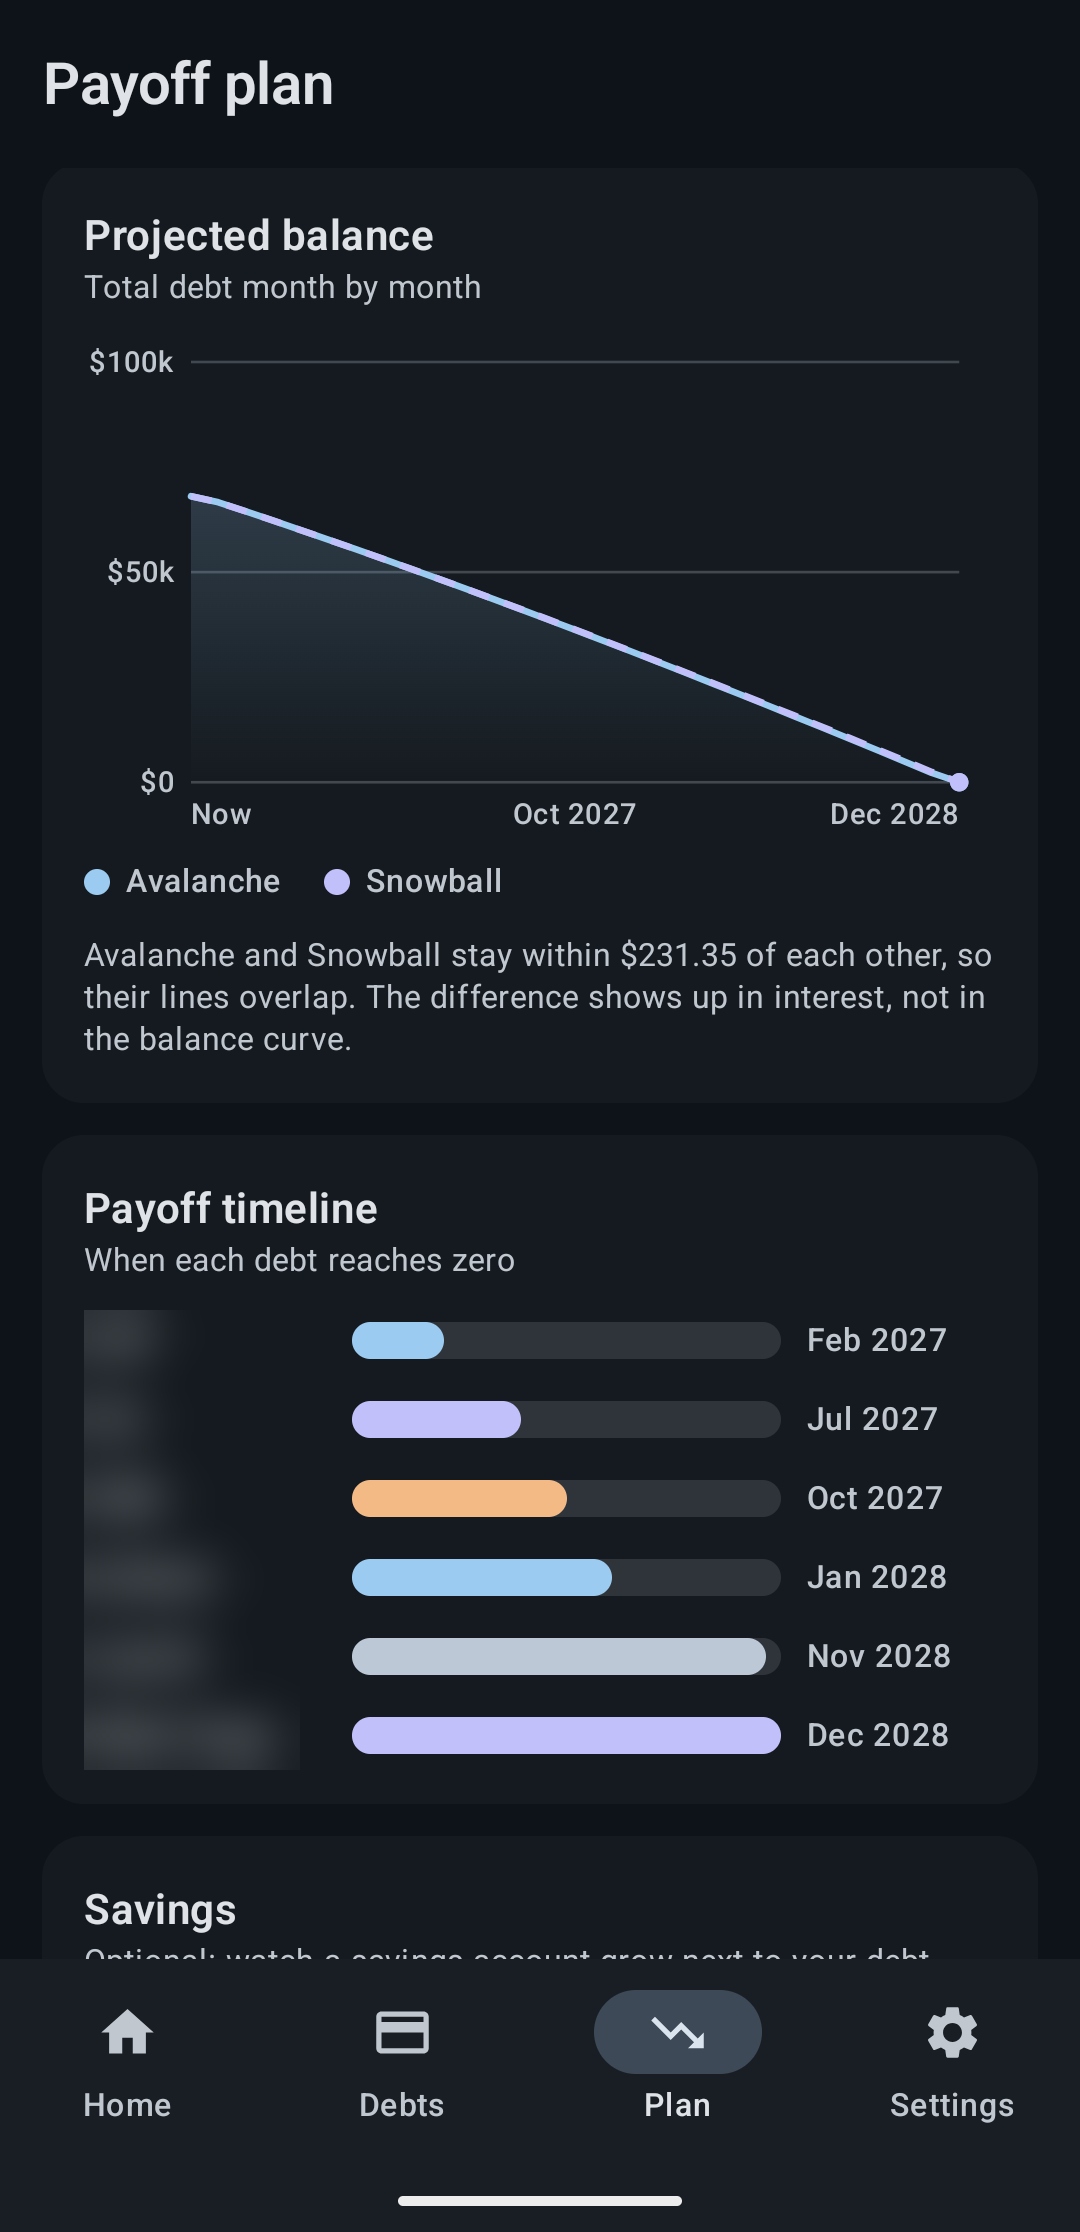
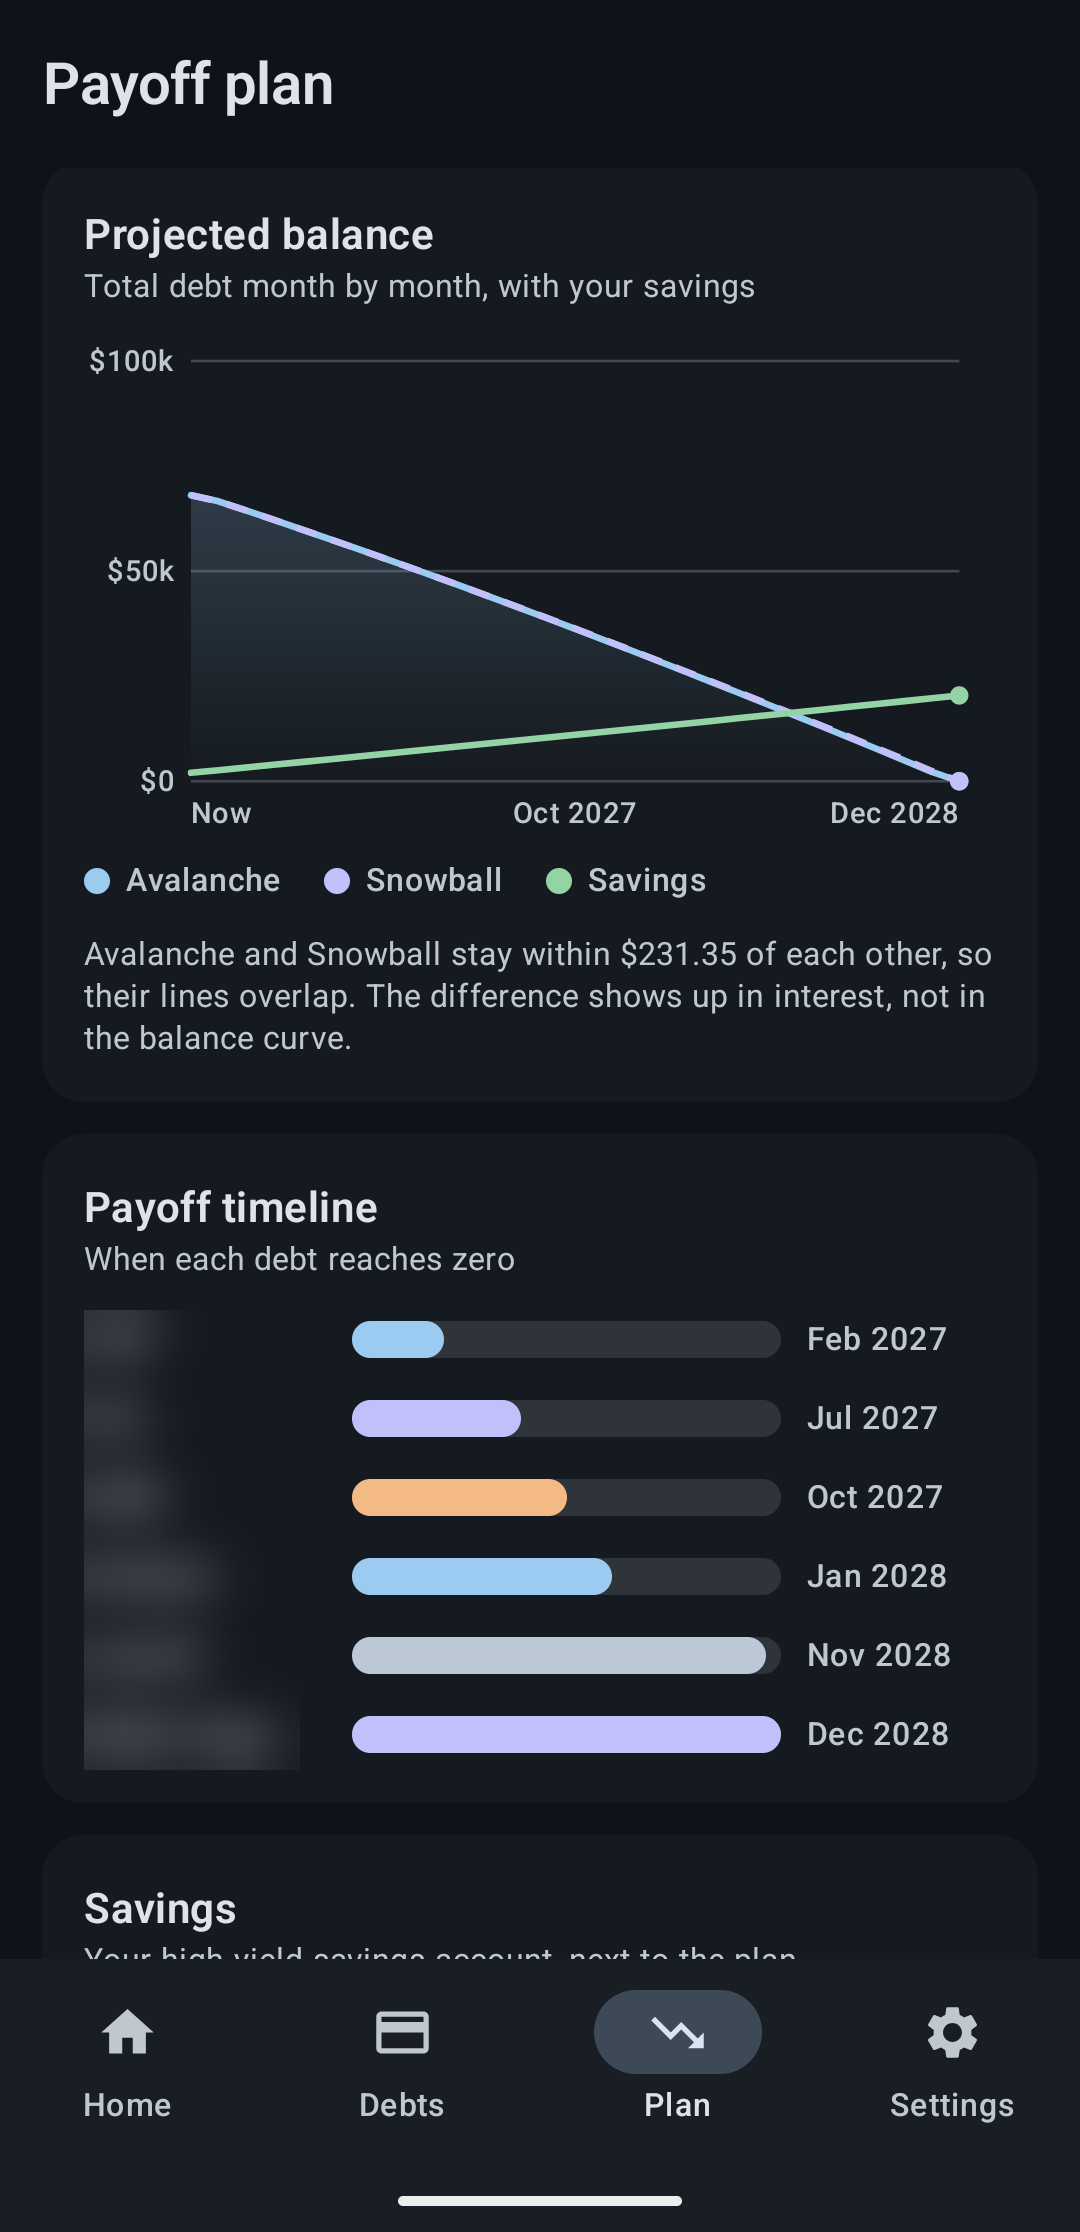
Refactor backup exception handling and improve test assertions

diff --git a/app/src/main/java/com/avalanche/app/data/Backup.kt b/app/src/main/java/com/avalanche/app/data/Backup.kt
@@ -1,7 +1,6 @@
 package com.avalanche.app.data
 
 import com.avalanche.app.domain.SavingsLimits
-import com.avalanche.app.domain.SavingsSetup
 import com.avalanche.app.domain.Strategy
 import com.google.gson.Gson
 import com.google.gson.GsonBuilder
@@ -72,7 +71,7 @@ data class PaymentDto(
     val prevApr: Double? = null,
 )
 
-class BackupException(message: String) : Exception(message)
+class BackupException(message: String, cause: Throwable? = null) : Exception(message, cause)
 
 data class ParsedBackup(val debts: List<DebtEntity>, val payments: List<PaymentEntity>, val settings: BackupSettings?)
 
@@ -90,7 +89,7 @@ object Backup {
         while (true) {
             val n = reader.read(buffer)
             if (n < 0) break
-            text.append(buffer, 0, n)
+            text.appendRange(buffer, 0, n)
             if (text.length > MAX_CHARS) throw BackupException("This file is too large to be an Avalanche backup.")
         }
         return text.toString()
@@ -125,7 +124,7 @@ object Backup {
         val file = try {
             gson.fromJson(json, BackupFile::class.java)
         } catch (e: JsonSyntaxException) {
-            throw BackupException("This file isn't valid JSON.")
+            throw BackupException("This file isn't valid JSON.", e)
         } ?: throw BackupException("This file is empty.")
 
         if (file.app != APP_ID) throw BackupException("This doesn't look like an Avalanche backup.")

diff --git a/app/src/main/java/com/avalanche/app/ui/settings/SettingsViewModel.kt b/app/src/main/java/com/avalanche/app/ui/settings/SettingsViewModel.kt
@@ -3,6 +3,7 @@ package com.avalanche.app.ui.settings
 import android.content.ContentResolver
 import android.content.Context
 import android.net.Uri
+import android.util.Log
 import androidx.lifecycle.ViewModel
 import androidx.lifecycle.viewModelScope
 import com.avalanche.app.data.AppSettings
@@ -23,6 +24,8 @@ import kotlinx.coroutines.flow.map
 import kotlinx.coroutines.flow.stateIn
 import kotlinx.coroutines.launch
 import kotlinx.coroutines.withContext
+
+private const val TAG = "SettingsViewModel"
 
 class SettingsViewModel(
     private val repo: DebtRepository,
@@ -75,6 +78,7 @@ class SettingsViewModel(
                 }
                 "Backup saved."
             } catch (e: Exception) {
+                Log.w(TAG, "Couldn't save the backup", e)
                 "Couldn't save the backup."
             }
         }
@@ -92,6 +96,7 @@ class SettingsViewModel(
             } catch (e: BackupException) {
                 "Not restored: ${e.message}"
             } catch (e: Exception) {
+                Log.w(TAG, "Couldn't read the backup file", e)
                 "Couldn't read that file."
             }
         }

diff --git a/app/src/test/java/com/avalanche/app/data/BackupTest.kt b/app/src/test/java/com/avalanche/app/data/BackupTest.kt
@@ -4,6 +4,7 @@ import com.avalanche.app.domain.SavingsSetup
 import java.io.StringReader
 import org.junit.Assert.assertEquals
 import org.junit.Assert.assertNull
+import org.junit.Assert.assertThrows
 import org.junit.Assert.assertTrue
 import org.junit.Assert.fail
 import org.junit.Test
@@ -38,12 +39,7 @@ class BackupTest {
     fun aNegativePreviousAprIsRejected() {
         val json = Backup.toJson(listOf(debt()), listOf(adjustment(-1.0)), AppSettings("USD"))
 
-        try {
-            Backup.parse(json)
-            fail("should have rejected a negative rate")
-        } catch (expected: BackupException) {
-            // expected
-        }
+        assertThrows(BackupException::class.java) { Backup.parse(json) }
     }
 
     @Test

diff --git a/app/src/main/java/com/avalanche/app/data/DebtRepository.kt b/app/src/main/java/com/avalanche/app/data/DebtRepository.kt
@@ -135,7 +135,7 @@ class DebtRepository(
             if (originalOverride != null) {
                 updated = updated.copy(
                     originalBalance = originalOverride,
-                    priorInterestPaid = if ((percentPaid ?: 0.0) > 0.0) priorInterest(originalOverride, startBalance, newApr, newMin) else 0.0,
+                    priorInterestPaid = if (percentPaid > 0.0) priorInterest(originalOverride, startBalance, newApr, newMin) else 0.0,
                 )
             }
             if (balanceChanged && !hasHistory) {

diff --git a/app/src/test/java/com/avalanche/app/domain/SavingsTest.kt b/app/src/test/java/com/avalanche/app/domain/SavingsTest.kt
@@ -93,7 +93,7 @@ class SavingsTest {
 
         val earning = SavingsProjector.project(setup(balance = 300.0, income = 2000.0, percent = 10.0, apy = 5.0), plan, 100.0)
         assertTrue(earning.savedAtDebtFree!! > 2300.0)
-        assertEquals(earning.savedAtDebtFree!! - 2300.0, earning.interestEarnedAtDebtFree!!, 1e-9)
+        assertEquals(earning.savedAtDebtFree - 2300.0, earning.interestEarnedAtDebtFree!!, 1e-9)
     }
 
     @Test

diff --git a/app/src/main/java/com/avalanche/app/ui/theme/Theme.kt b/app/src/main/java/com/avalanche/app/ui/theme/Theme.kt
@@ -80,6 +80,7 @@ private val DarkKindColors = KindColors(
 
 val LocalKindColors = staticCompositionLocalOf { LightKindColors }
 
+@Suppress("UnusedReceiverParameter") // an extension only so it reads as MaterialTheme.kindColors, like colorScheme
 val MaterialTheme.kindColors: KindColors
     @Composable get() = LocalKindColors.current
 

diff --git a/README.md b/README.md
@@ -11,7 +11,7 @@ well as tappable (dark theme, Pixel 7 Pro):
 | Home                                                                                         | Debts                                                                                                                              | Plan                                                                                           | Charts                                                                                             | Debt detail                                                                                    |
 | -------------------------------------------------------------------------------------------- | ---------------------------------------------------------------------------------------------------------------------------------- | ---------------------------------------------------------------------------------------------- | -------------------------------------------------------------------------------------------------- | ---------------------------------------------------------------------------------------------- |
 | ![Home dashboard](docs/screenshots/home.png)                                                 | ![Debts list](docs/screenshots/debts.png)                                                                                          | ![Payoff plan](docs/screenshots/plan.png)                                                      | ![Projected balance and payoff timeline](docs/screenshots/charts.png)                              | ![Debt detail](docs/screenshots/debt-detail.png)                                               |
-| Total remaining, progress, the projected debt-free date, and interest paid vs. still to come | Every debt as a card, revolving and installment tinted apart, tagged with where the extra goes and what is already paid this month | The debt-free date, then avalanche vs. snowball as tappable boxes with your extra per month    | Projected balance for both strategies, and a payoff timeline sorted by when each debt reaches zero | Balance and progress, interest paid so far (with an estimate), log a payment, projected payoff |
+| Total remaining, progress, the projected debt-free date, and interest paid vs. still to come | Every debt as a card, revolving and installment tinted apart, tagged with where the extra goes and what is already paid this month | The debt-free date, then avalanche vs. snowball as tappable boxes with your extra per month    | Projected balance for both strategies plus your savings line, and a payoff timeline by payoff date | Balance and progress, interest paid so far (with an estimate), log a payment, projected payoff |
 
 ## Requirements
 
